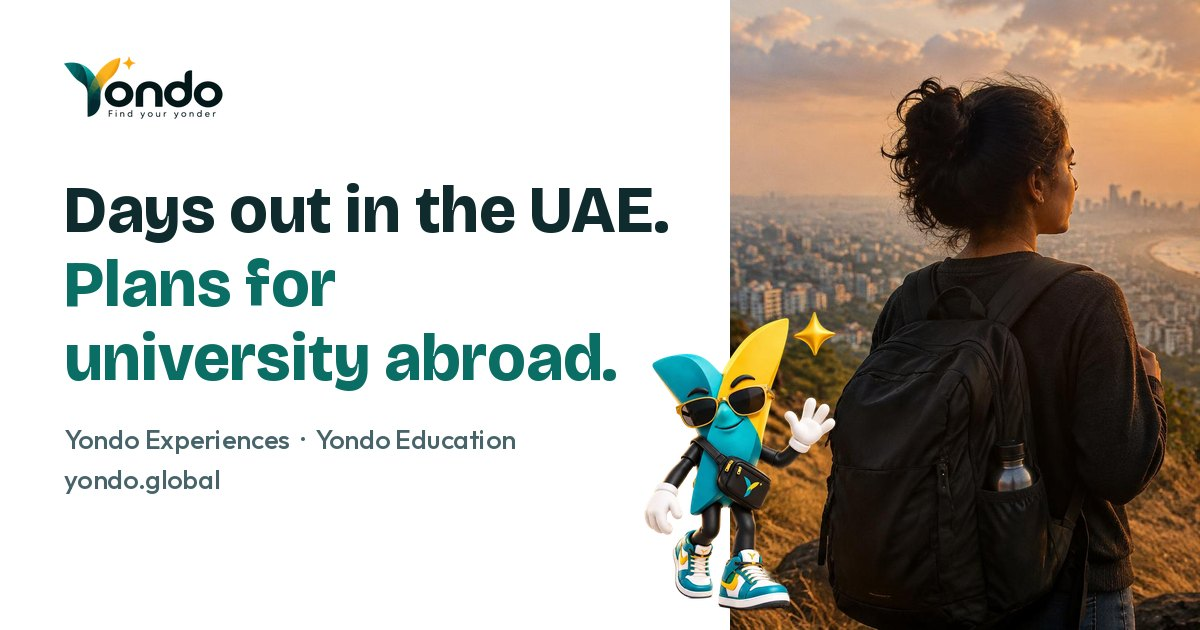
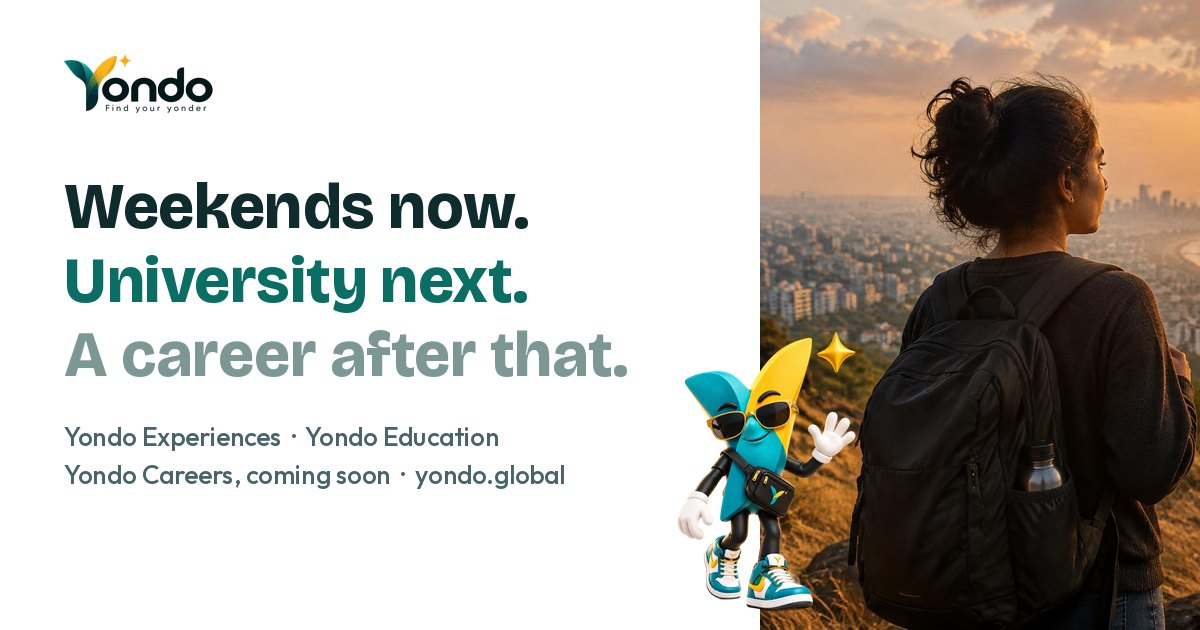
Hub: Yondo grows with you (Now: Experiences, Next: Education, After that: Careers, coming soon)
Claude-Session: https://claude.ai/code/session_01H8XE8mFes2NsvWqFAuRZ3g

diff --git a/index.html b/index.html
@@ -4,7 +4,7 @@
 <meta charset="utf-8">
 <meta name="viewport" content="width=device-width, initial-scale=1">
 <title>Yondo | Yondo Experiences and Yondo Education</title>
-<meta name="description" content="Yondo is for students: Yondo Experiences books days out and trips across the UAE, and Yondo Education offers career and study-abroad counselling for students and parents.">
+<meta name="description" content="Yondo grows with you: Yondo Experiences for days out and trips across the UAE, Yondo Education for career and study-abroad counselling, and Yondo Careers, coming soon.">
 <meta http-equiv="Content-Security-Policy" content="default-src 'self'; img-src 'self' data: https://qutniscdrelryowbkpdl.supabase.co https://images.unsplash.com; style-src 'self' 'unsafe-inline'; font-src 'self'; script-src 'self'; base-uri 'none'; form-action 'none'; object-src 'none'">
 <meta name="referrer" content="strict-origin-when-cross-origin">
 <meta name="theme-color" content="#ffffff">
@@ -42,14 +42,15 @@
 <main id="main">
 <section class="opening" aria-labelledby="hero-h">
   <div class="wrap">
-    <h1 id="hero-h">Days out in the UAE. <span>Plans for university abroad.</span></h1>
-    <p class="lead">Yondo is for students and young people. Yondo Experiences books theme parks, desert trips and days on the water across the UAE. Yondo Education helps students and their parents choose what to study and where, then helps with applications, visas and the move.</p>
+    <h1 id="hero-h">Weekends now. <span class="l2">University next.</span> <span class="l3">A career after that.</span></h1>
+    <p class="lead">Yondo grows with you. Yondo Experiences books days out and trips across the UAE for students. Yondo Education helps you choose what to study and where, then gets you there. Yondo Careers is coming soon.</p>
   </div>
 </section>
 
-<section class="brands" aria-label="The Yondo brands">
+<section class="brands" aria-label="The Yondo brands, in the order a student needs them">
   <div class="wrap">
     <div class="brands-in">
+      <div class="stage-col"><p class="stage-tag">Now</p>
       <article class="bp bp-exp" aria-labelledby="exp-h">
         <div class="bp-photo">
           <img class="ph" src="https://images.unsplash.com/photo-1695878868496-fcbd6ef47f57?w=900&amp;h=563&amp;fit=crop&amp;crop=entropy&amp;q=70&amp;auto=format" srcset="https://images.unsplash.com/photo-1695878868496-fcbd6ef47f57?w=640&amp;h=400&amp;fit=crop&amp;crop=entropy&amp;q=70&amp;auto=format 640w, https://images.unsplash.com/photo-1695878868496-fcbd6ef47f57?w=900&amp;h=563&amp;fit=crop&amp;crop=entropy&amp;q=70&amp;auto=format 900w, https://images.unsplash.com/photo-1695878868496-fcbd6ef47f57?w=1280&amp;h=800&amp;fit=crop&amp;crop=entropy&amp;q=70&amp;auto=format 1280w" sizes="(max-width: 900px) 100vw, 590px" width="900" height="563" alt="Dune buggies driving through the desert outside Dubai" loading="eager">
@@ -65,7 +66,8 @@
           </ul>
           <a class="cta cta-exp" href="https://experiences.yondo.global/">Explore Yondo Experiences</a>
         </div>
-      </article>
+      </article></div>
+      <div class="stage-col"><p class="stage-tag">Next</p>
       <article class="bp bp-edu" aria-labelledby="edu-h">
         <div class="bp-photo">
           <img class="ph" src="/assets/photo-discover-wide-1200.webp" srcset="/assets/photo-discover-wide-640.webp 640w, /assets/photo-discover-wide-1200.webp 1200w" sizes="(max-width: 900px) 100vw, 590px" width="1200" height="750" alt="A student with a backpack looking out over a city at sunrise" loading="eager">
@@ -80,7 +82,16 @@
           </ul>
           <a class="cta cta-edu" href="https://education.yondo.global/">Explore Yondo Education</a>
         </div>
-      </article>
+      </article></div>
+      <div class="stage-col"><p class="stage-tag">After that</p>
+      <article class="bp bp-car" aria-labelledby="car-h">
+        <div class="bp-body">
+          <p class="bp-name"><span class="dot" aria-hidden="true"></span>Yondo Careers</p>
+          <h2 id="car-h">Thriving at university, then starting work</h2>
+          <p class="bp-line">The next chapter of Yondo, for when you’re ready for it.</p>
+          <p class="soon-tag">Coming soon</p>
+        </div>
+      </article></div>
     </div>
     <!-- Desert photo: Dreamer Dude on Unsplash (Unsplash Licence; no credit required on the page) -->
   </div>

diff --git a/assets/hub.css b/assets/hub.css
@@ -148,3 +148,23 @@ h1, h2 { font-family: var(--display); font-weight: 750; text-wrap: balance; }
   .foot-brand { grid-column: 1 / -1; }
 }
 @media (prefers-reduced-motion: reduce) { .pick .go { transition: none; } }
+
+/* ---------------------------------------------------------------- grows with you: now, next, after that */
+.opening h1 .l2 { display: block; color: var(--edu-teal); }
+.opening h1 .l3 { display: block; color: #7d9894; }
+.brands-in { grid-template-columns: minmax(0, 1fr) minmax(0, 1fr) minmax(0, .62fr); align-items: stretch; }
+.stage-col { display: flex; flex-direction: column; min-width: 0; }
+.stage-col .bp { flex: 1; }
+.stage-tag { position: relative; display: flex; align-items: center; gap: 12px; margin: 0 0 14px; font: 700 15px/1 var(--display); letter-spacing: .01em; color: var(--ink); }
+.stage-tag::before { content: ""; width: 12px; height: 12px; border-radius: 50%; background: var(--hi); box-shadow: 0 0 0 4px #fff3cf; flex: none; }
+.stage-tag::after { content: ""; flex: 1; height: 0; border-top: 2px dotted #c7d6d3; }
+.stage-col:last-child .stage-tag::after { display: none; }
+.bp-car { background: var(--white); color: var(--ink); border: 2px dashed #c7d6d3; }
+.bp-car h2 { color: var(--ink); }
+.bp-car .bp-line { color: var(--ink-2); }
+.bp-car .bp-name { color: var(--ink-2); }
+.bp-car .bp-name .dot { background: #c7d6d3; }
+.soon-tag { align-self: flex-start; margin-top: auto; padding: 6px 12px; border-radius: 999px; background: var(--bg); font-weight: 700; font-size: 14px; color: var(--ink-2); }
+@media (max-width: 1100px) { .brands-in { grid-template-columns: minmax(0, 1fr) minmax(0, 1fr); } .stage-col:last-child { grid-column: 1 / -1; } .stage-col:nth-child(2) .stage-tag::after { display: none; } }
+@media (max-width: 900px) { .brands-in { grid-template-columns: minmax(0, 1fr); } .stage-col:last-child { grid-column: auto; } .stage-tag::after { display: none; } }
+.bp-car h2 { font-size: clamp(24px, 2.2vw, 30px); }
